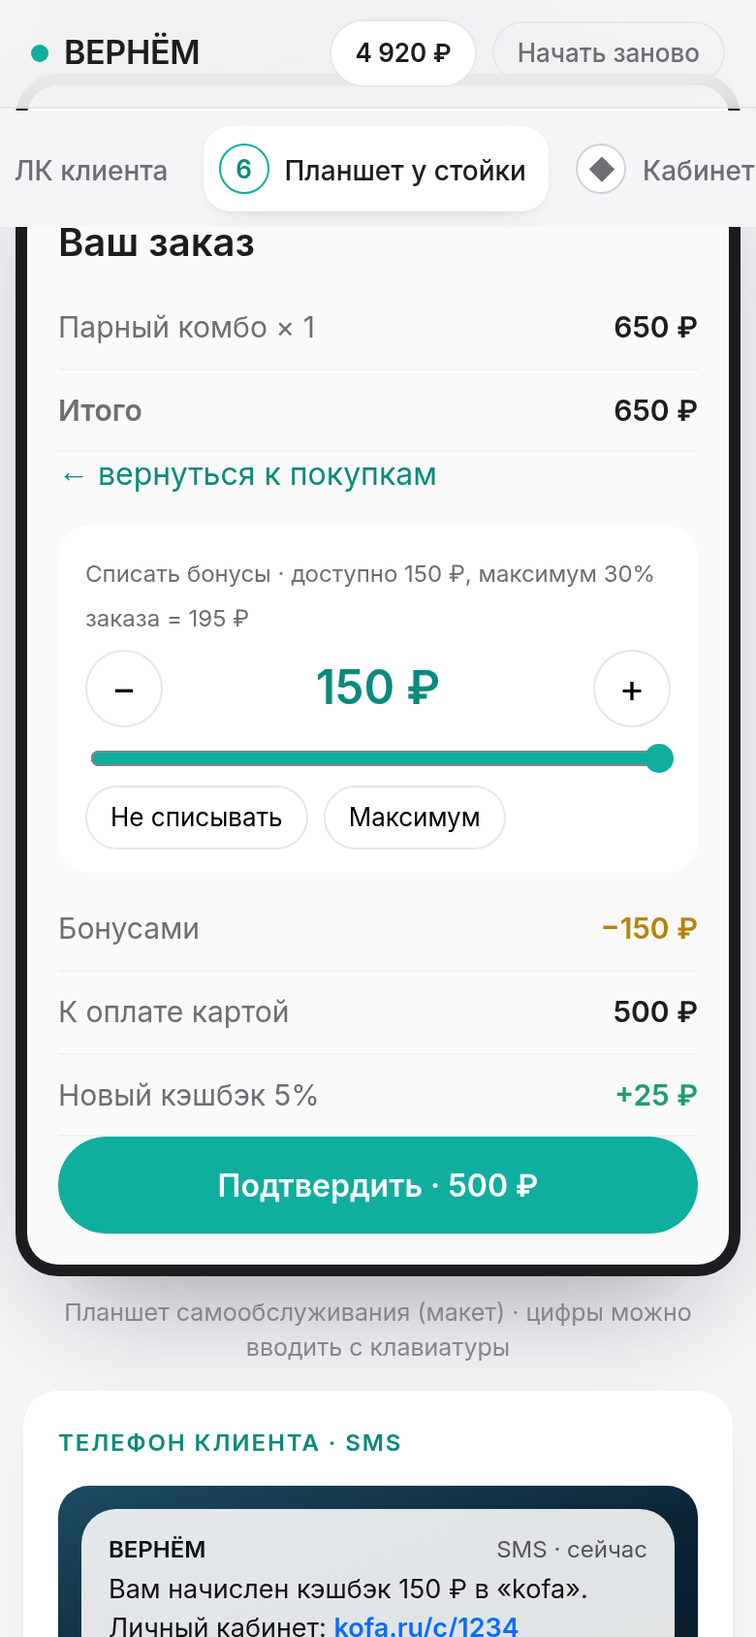
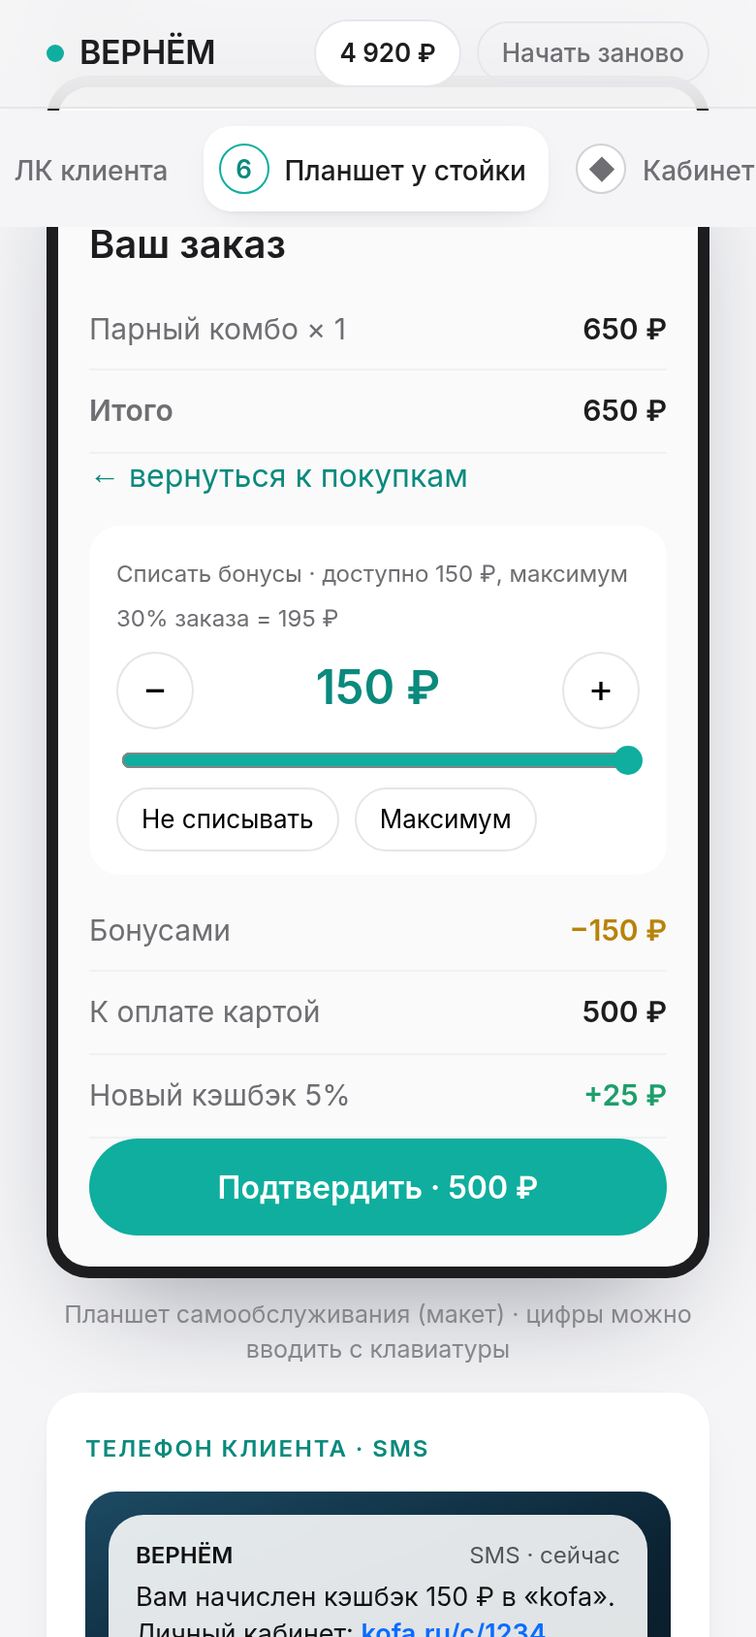
Mobile/desktop padding 24/32px; tablet: client cabinet with store + history after login; PIN для планшета

diff --git a/demo/index.html b/demo/index.html
@@ -21,7 +21,7 @@ body{background:var(--bg);color:var(--ink);font-family:Inter,-apple-system,Blink
 button,input,select{font-family:inherit;font-size:inherit}
 a{color:var(--brand-d)}
 .top{position:sticky;top:0;z-index:30;background:rgba(245,245,247,.82);backdrop-filter:saturate(180%) blur(20px);-webkit-backdrop-filter:saturate(180%) blur(20px);border-bottom:1px solid rgba(0,0,0,.06)}
-.top .in{max-width:1240px;margin:0 auto;padding:10px 16px;padding-top:max(10px,env(safe-area-inset-top));display:flex;align-items:center;gap:10px}
+.top .in{max-width:1240px;margin:0 auto;padding:10px 32px;padding-top:max(10px,env(safe-area-inset-top));display:flex;align-items:center;gap:10px}
 .brand{display:flex;align-items:center;gap:8px;font-weight:600;font-size:17px;letter-spacing:-.01em;text-decoration:none;color:var(--ink)}
 .dot{width:9px;height:9px;border-radius:50%;background:var(--brand);display:inline-block}
 .badge{font-size:11px;font-weight:600;color:var(--brand-d);background:var(--tint);padding:3px 8px;border-radius:20px}
@@ -30,7 +30,7 @@ a{color:var(--brand-d)}
 .pill b{font-weight:600}
 .ghost{background:none;border:1px solid var(--border);border-radius:980px;padding:7px 12px;font-size:13px;font-weight:500;color:var(--grey);cursor:pointer;white-space:nowrap}
 .ghost:hover{color:var(--ink)}
-.layout{max-width:1240px;margin:0 auto;display:grid;grid-template-columns:250px 1fr;gap:28px;padding:24px 16px 80px}
+.layout{max-width:1240px;margin:0 auto;display:grid;grid-template-columns:250px 1fr;gap:36px;padding:32px 32px 80px}
 .steps{position:sticky;top:76px;align-self:start;display:flex;flex-direction:column;gap:4px}
 .st{display:flex;align-items:center;gap:12px;padding:12px 14px;border-radius:14px;border:none;background:none;text-align:left;cursor:pointer;color:var(--grey);font-weight:500;font-size:15px;min-height:48px}
 .st .n{width:28px;height:28px;border-radius:50%;border:1.5px solid #D2D2D7;display:flex;align-items:center;justify-content:center;font-size:13px;font-weight:600;flex-shrink:0;background:#fff}
@@ -287,6 +287,14 @@ tr.me td{background:var(--tint)}tr.tot td{font-weight:600;border-top:1.5px solid
 .bkpill{margin-left:auto;display:flex;gap:8px;align-items:center}.bkpill .tpill{background:rgba(255,255,255,.9)}.bkpill .rb{background:rgba(255,255,255,.2);color:#fff;border-color:rgba(255,255,255,.4)}
 .tcab1{flex:1;overflow:auto;padding:18px 26px;display:flex;flex-direction:column;gap:12px;max-width:560px;width:100%;margin:0 auto}
 @media (min-width:821px){.tshop,.tshop .land.app{--stk:0px}}
+.tlk{padding:16px 18px 6px;background:#fff;border-bottom:1px solid #EEE}.tlk-h{display:flex;justify-content:space-between;align-items:center;font-size:15px}
+.tlk-hi{font-size:22px;font-weight:600;margin:12px 0 10px;letter-spacing:-.01em}.tlk-hi small{display:block;font-size:12.5px;font-weight:400;color:var(--grey)}
+.tlk-b{display:grid;grid-template-columns:1.6fr 1fr;gap:10px}.tlk-main{background:var(--tint);border-radius:18px;padding:14px 16px}.tlk-main small,.tlk-oth small{display:block;font-size:12px;color:var(--grey)}
+.tlk-main b{display:block;font-size:30px;font-weight:700;color:var(--brand-d);margin:2px 0}.tlk-main span{font-size:12px;color:var(--grey)}
+.tlk-oth{background:#F5F5F7;border-radius:18px;padding:14px 16px;font-size:13px}.tlk-oth div{display:flex;align-items:center;gap:8px;margin:6px 0 2px}.tlk-oth b{margin-left:auto;font-weight:600}.tlk-oth em{font-style:normal;font-size:11.5px;color:var(--grey2)}
+.tseg{display:flex;gap:4px;background:#F2F2F4;border-radius:12px;padding:3px;margin:14px 0 10px;max-width:320px}.tseg button{flex:1;border:none;background:none;border-radius:10px;padding:8px 0;font:inherit;font-size:14px;font-weight:500;color:var(--grey);cursor:pointer}.tseg button.on{background:#fff;color:var(--ink);box-shadow:0 1px 3px rgba(0,0,0,.1)}
+.thist2{padding:8px 18px 18px}.thist2 .hr{display:flex;justify-content:space-between;gap:10px;padding:10px 0;border-bottom:1px solid #EEE;font-size:14px}.thist2 small{display:block;color:var(--grey);font-size:12px}.thist2 b{white-space:nowrap}
+@media (max-width:820px){.tlk-b{grid-template-columns:1fr}.tlk{padding:16px 16px 4px}}
 .tablet{max-width:1024px;margin:0 auto 10px;background:#1D1D1F;border-radius:30px;padding:14px;box-shadow:0 30px 60px -28px rgba(16,24,40,.45)}
 .tscreen{background:#FAFAFA;border-radius:18px;aspect-ratio:16/10;overflow:hidden;display:flex;flex-direction:column;color:var(--ink)}
 .ttop{display:flex;justify-content:space-between;align-items:center;padding:12px 18px;background:#fff;border-bottom:1px solid #EEE;font-size:15px}.tmeta{font-size:13px;color:var(--grey)}
@@ -313,17 +321,18 @@ tr.me td{background:var(--tint)}tr.tot td{font-weight:600;border-top:1.5px solid
 .tuse-row button,.tuse-q button{border:1px solid #E5E5EA;background:#fff;border-radius:980px;font:inherit;cursor:pointer}.tuse-row button{width:40px;height:40px;font-size:20px}.tuse input{width:100%;accent-color:#0FAE9E}.tuse-q{display:flex;gap:8px}.tuse-q button{padding:6px 12px;font-size:13px}
 .tdone{flex:1;display:flex;flex-direction:column;align-items:center;justify-content:center;text-align:center;padding:18px}.tok{width:64px;height:64px;border-radius:50%;background:var(--tint);color:var(--brand-d);font-size:32px;display:flex;align-items:center;justify-content:center}
 .tdone h3{font-size:26px;margin:12px 0 4px;font-weight:600}.tdone p{color:var(--grey);margin:0 0 14px}.tdone-k{display:grid;grid-template-columns:repeat(4,1fr);gap:10px;margin-bottom:14px}.tdone-k div{background:#fff;border-radius:14px;padding:10px 14px}.tdone-k small{display:block;font-size:12px;color:var(--grey)}.tdone-k b{font-size:17px}
-@media (max-width:820px){.tablet{padding:6px;border-radius:22px;margin:0 -4px 10px}.tscreen{aspect-ratio:auto;border-radius:16px}.tphone,.tco{grid-template-columns:1fr;padding:16px;gap:14px}.tpad{margin:0 auto;max-width:none}.tph-l h3{font-size:22px}
+@media (max-width:820px){.tablet{padding:6px;border-radius:22px;margin:0 0 10px}.tscreen{aspect-ratio:auto;border-radius:16px}.tphone,.tco{grid-template-columns:1fr;padding:16px;gap:14px}.tpad{margin:0 auto;max-width:none}.tph-l h3{font-size:22px}
  .tcab{grid-template-columns:1fr}.tside{border-right:none;border-bottom:1px solid #EEE}.thist{display:none}.tgrid{grid-template-columns:repeat(2,1fr);overflow:visible}.tdone-k{grid-template-columns:repeat(2,1fr)}}
 @media (max-width:980px){.stage.s5,.stage.s6{grid-template-columns:minmax(0,1fr)}.kpis{grid-template-columns:repeat(2,1fr)}.stage{grid-template-columns:minmax(0,1fr)}}
 @media (max-width:820px){
- .layout{grid-template-columns:1fr;gap:14px;padding:12px 12px 90px}
- .steps{position:sticky;top:57px;z-index:20;flex-direction:row;overflow-x:auto;gap:6px;padding:8px 0;margin:0 -12px;padding-left:12px;padding-right:12px;background:var(--bg);scrollbar-width:none}
+ .layout{grid-template-columns:1fr;gap:18px;padding:16px 24px 90px}
+ .top .in{padding-left:24px;padding-right:24px}
+ .steps{position:sticky;top:57px;z-index:20;flex-direction:row;overflow-x:auto;gap:6px;padding:8px 0;margin:0 -24px;padding-left:24px;padding-right:24px;background:var(--bg);scrollbar-width:none}
  .steps::-webkit-scrollbar{display:none}
  .st{flex-shrink:0;padding:8px 12px 8px 8px;min-height:44px;font-size:14px;gap:8px}
  .st .n{width:26px;height:26px}
  .grid2{grid-template-columns:1fr}
- .card{padding:18px}
+ .card{padding:20px}
  .pill .lbl{display:none}
 }
 @media (max-width:820px){.vnote{position:static;display:table;margin:-70px auto 24px}}
@@ -676,7 +685,7 @@ function bindLk(){$$('[data-lk]').forEach(function(a){a.onclick=function(e){e.pr
 function v5(){
   OTHER=indKey()==='coffee'?OTHER0:OTHER1;
   var c=client(S.last),p=S.partner;
-  return head('Шаг 5','Личный кабинет клиента','Клиент открыл ссылку из SMS: баланс по сетям, история и PIN для терминала. Бонусы бессрочные.')+
+  return head('Шаг 5','Личный кабинет клиента','Клиент открыл ссылку из SMS: баланс по сетям, история и PIN для планшета. Бонусы бессрочные.')+
   '<div class="stage s5"><div><div class="phone"><div class="screen"><div class="isl"></div><div class="sbar"><span>9:41</span><span>●●● ▮</span></div><div class="lk">'+
   '<div class="hd"><span class="nett">'+logo(24)+esc(p.name)+'</span><span style="font-size:12px;color:var(--grey)">'+esc(maskPhone(c.phone))+'</span></div>'+
   '<div class="nets-t">Мои бонусы по сетям</div>'+
@@ -700,15 +709,19 @@ function tCart(){var q=TB.pend;return q?{L:[{n:q.t,p:q.p,q:1,note:q.note}],sum:r
 function tCalc(){var c=S.clients[normPhone(TB.ph)],p=S.partner,k=tCart(),cap=Math.floor(k.sum*p.maxShare/100),mx=Math.floor(Math.min(c?c.balance:0,cap));
   var u=TB.use==null?mx:Math.max(0,Math.min(mx,TB.use)),pay=r2(k.sum-u);return {sum:k.sum,cap:cap,max:mx,u:u,pay:pay,cb:r2(pay*p.cb/100),comm:r2(pay*p.comm/100)};}
 function tPad(id){return '<div class="tpad">'+['1','2','3','4','5','6','7','8','9','del','0','ok'].map(function(k){return '<button class="tk'+(k==='ok'?' ok':'')+'" data-tk="'+k+'" data-pad="'+id+'">'+(k==='ok'?'→':k==='del'?'⌫':k)+'</button>';}).join('')+'</div>';}
-function tScreen(){
+function tScreen(){OTHER=indKey()==='coffee'?OTHER0:OTHER1;
   var p=S.partner,c=S.clients[normPhone(TB.ph)];
   var top='<div class="ttop"><span class="nett">'+logo(26)+'<b>'+esc(p.name)+'</b></span><span class="tmeta">'+(TB.st!=='phone'&&c?esc(maskPhone(c.phone))+' · <button class="tlink" data-tb="out">выйти</button>':'Заказ у стойки')+'</span></div>';
   if(TB.st==='phone')return top+'<div class="tphone"><div class="tph-l"><h3>Введите номер телефона</h3><p>Увидите свои бонусы в '+esc(qn(p.name))+' и сможете сразу сделать заказ</p><div class="tdisp">'+(TB.ph?esc(digits(TB.ph).length===11?fmtPhone(TB.ph):'+'+TB.ph):'<span>+7 (___) ___-__-__</span>')+'</div>'+
     (S.last?'<button class="tquick" data-tb="me">Это я · '+esc(maskPhone(S.last))+'</button>':'')+'</div><div class="tph-r">'+tPad('ph')+'</div></div>';
-  if(TB.st==='shop')return '<div class="tshop" id="site">'+siteHtml()+'</div>';
-  if(TB.st==='cab')return top+'<div class="tcab1"><div class="tbal"><small>Ваши бонусы в '+esc(qn(p.name))+'</small><b>'+fmt(c.balance)+'</b><span>+'+p.cb+'% с каждого заказа · до '+p.maxShare+'% заказа бонусами</span></div>'+
-    '<div class="thist"><small>История</small>'+(c.hist.length?c.hist.slice(0,6).map(function(h){return '<div><span>'+esc(h.txt)+' · '+h.t+'</span><b class="'+(h.d>=0?'plus':'minus')+'">'+(h.d>=0?'+':'−')+fmt(Math.abs(h.d))+'</b></div>';}).join(''):'<div><span>Пока пусто</span></div>')+'</div>'+
-    '<button class="btn wide" data-tb="shop">← К покупкам</button></div>';
+  if(TB.st==='shop'||TB.st==='cab'){var tab=TB.tab||'buy',fn=String(c.name||'');
+    var lk='<div class="tlk"><div class="tlk-h"><span class="nett">'+logo(28)+'<b>'+esc(p.name)+'</b></span><button class="tlink" data-tb="out">Выйти</button></div>'+
+      '<div class="tlk-hi">Здравствуйте!<small>'+esc(maskPhone(c.phone))+'</small></div>'+
+      '<div class="tlk-b"><div class="tlk-main"><small>Ваши бонусы в '+esc(qn(p.name))+'</small><b data-t="tlkbal">'+fmt(c.balance)+'</b><span>+'+p.cb+'% с каждой покупки · оплата бонусами до '+p.maxShare+'%</span></div>'+
+      '<div class="tlk-oth"><small>Другие сети</small><div>'+initAva(OTHER.name,22)+'<span>'+esc(OTHER.name)+'</span><b>'+fmt(OTHER.bal)+'</b></div><em>тратятся только там</em></div></div>'+
+      '<div class="tseg"><button data-tab="buy"'+(tab==='buy'?' class="on"':'')+'>Покупки</button><button data-tab="hist"'+(tab==='hist'?' class="on"':'')+'>История</button></div></div>';
+    if(tab==='hist')return '<div class="tshop">'+lk+'<div class="thist2">'+(c.hist.length?c.hist.slice(0,12).map(function(h){return '<div class="hr"><div>'+esc(h.txt)+'<small>'+h.t+' · '+fmt(h.amount)+'</small></div><b class="'+(h.d>=0?'plus':'minus')+'">'+(h.d>=0?'+':'−')+fmt(Math.abs(h.d))+'</b></div>';}).join(''):'<div class="hint">Пока пусто</div>')+'</div></div>';
+    return '<div class="tshop">'+lk+'<div id="site">'+siteHtml()+'</div></div>';}
   if(TB.st==='checkout'){var k=tCart(),t=tCalc();
     return top+'<div class="tco"><div class="tco-l"><h3>Ваш заказ</h3>'+k.L.map(function(l){return '<div class="kv"><span>'+esc(l.n)+' × '+l.q+'</span><b>'+fmt(l.p*l.q)+'</b></div>';}).join('')+'<div class="kv"><span><b>Итого</b></span><b>'+fmt(t.sum)+'</b></div>'+(k.L[0]&&k.L[0].note?'<div class="hint">'+esc(k.L[0].note)+'</div>':'')+'<button class="tlink" data-tb="back">← вернуться к покупкам</button></div>'+
       '<div class="tco-r"><div class="tuse"><small>Списать бонусы · доступно '+fmt(c.balance)+', максимум '+p.maxShare+'% заказа = '+fmt(t.cap)+'</small><div class="tuse-row"><button data-tu="-">−</button><b data-t="tuse">'+fmt(t.u)+'</b><button data-tu="+">+</button></div>'+
@@ -725,14 +738,15 @@ function tScreen(){
 }
 function v6(){
   var p=S.partner;
-  return head('Шаг 6','Планшет у стойки','Клиент вводит телефон и сразу попадает в магазин '+esc(qn(p.name))+' — бонусы видны в шапке, при оплате можно списать до '+p.maxShare+'%.')+
+  return head('Шаг 6','Планшет у стойки','Клиент входит по телефону и PIN в свой кабинет на планшете: бонусы, покупки в '+esc(qn(p.name))+' с оплатой бонусами до '+p.maxShare+'% и история.')+
   '<div class="tablet"><div class="tscreen" id="tscreen">'+tScreen()+'</div></div><p class="hint" style="text-align:center">Планшет самообслуживания (макет) · цифры можно вводить с клавиатуры</p>'+
   '<div class="grid2"><div class="card" id="tsms"><div class="eyebrow">Телефон клиента · SMS</div><div class="minisms" id="tsmsbox">'+(S.sms.length?S.sms.slice(0,2).map(smsHtml).join(''):'<div class="empty">Здесь появится SMS</div>')+'</div></div>'+
   '<div class="card"><div class="eyebrow">Балансы</div><div class="kv"><span>Депозит '+esc(qn(p.name))+'</span><b>'+fmt(p.balance)+'</b></div><div class="kv"><span>Бонусный долг клиентам</span><b>'+fmt(Object.keys(S.clients).reduce(function(a,k){return a+S.clients[k].balance;},0))+'</b></div><div class="hint">Списываются только бонусы сети '+esc(qn(p.name))+'. С депозита: комиссия '+pcs(p.comm)+'% и SMS '+SMSFEE+' ₽.</div>'+
   (done(6)?'<button class="btn wide next" data-t="to7">Открыть кабинет партнёра →</button>':'')+'</div></div>';
 }
 function tRefresh(){var s=$('#tscreen');if(s){s.innerHTML=tScreen();bindT();}}
-function tDecorate(){if(TB.st!=='shop')return;var c=S.clients[normPhone(TB.ph)];if(!c)return;
+function tDecorate(){if(TB.st!=='shop'||(TB.tab||'buy')!=='buy')return;
+  $$('#site [data-t=prof]').forEach(function(b){b.onclick=function(){TB.tab='hist';tRefresh();};});return;var c=S.clients[normPhone(TB.ph)];if(!c)return;
   var pill='<button class="tpill" data-tb2="cab" aria-label="Мои бонусы">у вас '+String(r2(c.balance)).replace('.',',')+' бонусов</button>';
   var hb=$('#site .hbtns');
   if(hb){hb.insertAdjacentHTML('afterbegin',pill);var ah=hb.closest('.ahead');if(ah)ah.insertAdjacentHTML('afterend','<div class="tpillrow">'+pill+'</div>');}
@@ -752,16 +766,18 @@ function tAuth(){var c=S.clients[TB.ph],v=TB.code;if(v.length!==4)return;TB.code
   if(TB.st==='regcode'||TB.st==='rcode'){if(v!==TB.sent){toast('Неверный код из SMS');tRefresh();return;}TB.st='newpin';tRefresh();return;}
   if(TB.st==='newpin'){TB.np=v;TB.st='newpin2';tRefresh();return;}
   if(TB.st==='newpin2'){if(v!==TB.np){toast('PIN не совпал — придумайте ещё раз');TB.st='newpin';tRefresh();return;}var nc=client(TB.ph);nc.pin=v;if(!nc.last)nc.last=now();save();toast('PIN сохранён');tEnter();return;}}
-function tEnter(){TB.st='shop';TB.pend=null;TB.use=null;bkReset();S.last=TB.ph;save();render();}
+function tEnter(){TB.st='shop';TB.tab='buy';TB.pend=null;TB.use=null;bkReset();S.last=TB.ph;save();render();tTop();}
+function tTop(){var tb=$('.tablet');if(tb){window.scrollTo({top:Math.max(0,tb.getBoundingClientRect().top+window.scrollY-stk()-12)});var sh=$('#tscreen .tshop');if(sh)sh.scrollTop=0;}}
 function bindT(){
-  if(TB.st==='shop'){bindSite();tDecorate();}
+  if(TB.st==='shop'&&(TB.tab||'buy')==='buy'){bindSite();tDecorate();}
+  $$('[data-tab]').forEach(function(b){b.onclick=function(){TB.tab=b.dataset.tab;tRefresh();};});
   $$('[data-tk]').forEach(function(b){b.onclick=function(){tKey(b.dataset.pad,b.dataset.tk);};});
   $$('[data-tu]').forEach(function(b){b.onclick=function(){var t=tCalc(),v=b.dataset.tu;TB.use=v==='max'?t.max:v==='0'?0:Math.max(0,Math.min(t.max,t.u+(v==='+'?10:-10)));tRefresh();};});
   var rg=$('[data-t=trange]');if(rg)rg.oninput=function(){TB.use=+rg.value;tRefresh();var r=$('[data-t=trange]');if(r)r.focus();};
   $$('[data-tb]').forEach(function(b){b.onclick=function(){var a=b.dataset.tb;
     if(a==='me'){if(!tLogin(S.last))return;}
     else if(a==='out'){tbReset();bkReset();}
-    else if(a==='new'||a==='shop'||a==='back'){TB.st='shop';TB.pend=null;TB.use=null;if(a==='new')bkReset();}
+    else if(a==='new'||a==='shop'||a==='back'){TB.st='shop';TB.tab='buy';TB.pend=null;TB.use=null;if(a==='new')bkReset();}
     else if(a==='confirm'){var t=tCalc();if(S.partner.balance<t.comm+SMSFEE){toast('Оплата временно недоступна — обратитесь к сотруднику');return;}payTB();return;}
     else if(a==='forgot'){if(!tSendCode('pinr'))return;TB.st='rcode';TB.code='';render();return;}
     else if(a==='resend'){if(!tSendCode(TB.st==='rcode'?'pinr':'reg'))return;render();return;}
@@ -778,7 +794,7 @@ function payTB(){
     var no=String(100+(S.tx.length*37)%900);
     tx({type:'terminal',phone:ph,amount:t.sum,used:t.u,paid:t.pay,cb:t.cb,comm:t.comm,item:title,no:no});S.last=ph;
     sendSms({k:'cb',cb:t.cb,partner:p.name,phone:ph});
-    TB.order={no:no,u:t.u,pay:t.pay,cb:t.cb,bal:c.balance};TB.st='done';TB.pend=null;bkReset();save();render();toast('Заказ № '+no+' принят');});
+    TB.order={no:no,u:t.u,pay:t.pay,cb:t.cb,bal:c.balance};TB.st='done';TB.pend=null;bkReset();save();render();tTop();toast('Заказ № '+no+' принят');});
 }
 function b6(){bindT();var t=$('[data-t=to7]');if(t)t.onclick=function(){go(7);};}
 document.addEventListener('keydown',function(e){if(S.step!==6||/input|textarea/i.test((e.target||{}).tagName||''))return;var pad=TB.st==='phone'?'ph':/^(pin|regcode|rcode|newpin|newpin2)$/.test(TB.st)?'au':null;if(!pad)return;if(/^\d$/.test(e.key))tKey(pad,e.key);else if(e.key==='Backspace')tKey(pad,'del');else if(e.key==='Enter')tKey(pad,'ok');});

diff --git a/demo/admin/index.html b/demo/admin/index.html
@@ -17,7 +17,7 @@ body{background:var(--bg);color:var(--ink);font-family:Inter,-apple-system,Blink
 button,input,select{font-family:inherit;font-size:inherit}
 a{color:var(--brand-d)}
 .top{position:sticky;top:0;z-index:30;background:rgba(245,245,247,.82);backdrop-filter:saturate(180%) blur(20px);-webkit-backdrop-filter:saturate(180%) blur(20px);border-bottom:1px solid rgba(0,0,0,.06)}
-.top .in{max-width:1240px;margin:0 auto;padding:10px 16px;padding-top:max(10px,env(safe-area-inset-top));display:flex;align-items:center;gap:10px}
+.top .in{max-width:1240px;margin:0 auto;padding:10px 32px;padding-top:max(10px,env(safe-area-inset-top));display:flex;align-items:center;gap:10px}
 .brand{display:flex;align-items:center;gap:8px;font-weight:600;font-size:17px;letter-spacing:-.01em;text-decoration:none;color:var(--ink)}
 .dot{width:9px;height:9px;border-radius:50%;background:var(--brand);display:inline-block}
 .badge{font-size:11px;font-weight:600;color:var(--brand-d);background:var(--tint);padding:3px 8px;border-radius:20px}
@@ -26,7 +26,7 @@ a{color:var(--brand-d)}
 .pill b{font-weight:600}
 .ghost{background:none;border:1px solid var(--border);border-radius:980px;padding:7px 12px;font-size:13px;font-weight:500;color:var(--grey);cursor:pointer;white-space:nowrap}
 .ghost:hover{color:var(--ink)}
-.layout{max-width:1240px;margin:0 auto;display:grid;grid-template-columns:250px 1fr;gap:28px;padding:24px 16px 80px}
+.layout{max-width:1240px;margin:0 auto;display:grid;grid-template-columns:250px 1fr;gap:36px;padding:32px 32px 80px}
 .steps{position:sticky;top:76px;align-self:start;display:flex;flex-direction:column;gap:4px}
 .st{display:flex;align-items:center;gap:12px;padding:12px 14px;border-radius:14px;border:none;background:none;text-align:left;cursor:pointer;color:var(--grey);font-weight:500;font-size:15px;min-height:48px}
 .st .n{width:28px;height:28px;border-radius:50%;border:1.5px solid #D2D2D7;display:flex;align-items:center;justify-content:center;font-size:13px;font-weight:600;flex-shrink:0;background:#fff}
@@ -184,29 +184,31 @@ tr.me td{background:var(--tint)}tr.tot td{font-weight:600;border-top:1.5px solid
 .stage.s5{grid-template-columns:300px minmax(0,1fr)}.stage.s6{grid-template-columns:320px minmax(0,1fr)}
 @media (max-width:980px){.stage.s5,.stage.s6{grid-template-columns:1fr}.kpis{grid-template-columns:repeat(2,1fr)}.stage{grid-template-columns:1fr}}
 @media (max-width:820px){
- .layout{grid-template-columns:1fr;gap:14px;padding:12px 12px 90px}
- .steps{position:sticky;top:57px;z-index:20;flex-direction:row;overflow-x:auto;gap:6px;padding:8px 0;margin:0 -12px;padding-left:12px;padding-right:12px;background:var(--bg);scrollbar-width:none}
+ .layout{grid-template-columns:1fr;gap:18px;padding:16px 24px 90px}
+ .top .in{padding-left:24px;padding-right:24px}
+ .steps{position:sticky;top:57px;z-index:20;flex-direction:row;overflow-x:auto;gap:6px;padding:8px 0;margin:0 -24px;padding-left:24px;padding-right:24px;background:var(--bg);scrollbar-width:none}
  .steps::-webkit-scrollbar{display:none}
  .st{flex-shrink:0;padding:8px 12px 8px 8px;min-height:44px;font-size:14px;gap:8px}
  .st .n{width:26px;height:26px}
  .grid2{grid-template-columns:1fr}
- .card{padding:18px}
+ .card{padding:20px}
  .pill .lbl{display:none}
 }
 @media (max-width:820px){.vnote{position:static;display:table;margin:-70px auto 24px}}
 @media (max-width:420px){.brand .badge{display:none}.top .in{gap:8px}}
-.wrap{max-width:1180px;margin:0 auto;padding:24px 16px 90px}
+.wrap{max-width:1180px;margin:0 auto;padding:32px 32px 90px}
+@media (max-width:820px){.wrap{padding:20px 24px 90px}}
 table.nets tr[data-net]{cursor:pointer}table.nets tr[data-net]:hover td{background:#F7F9FA}table.nets td small{display:block;color:var(--grey2);font-size:12px}
 td.go{color:var(--grey2);font-size:20px}
 .model{font-size:14.5px;line-height:1.55;background:var(--tint);color:#0b5f56;box-shadow:none}.model b{font-weight:600}
 .ov[hidden]{display:none}.ov{align-items:flex-start;overflow:auto}
-.sheet{background:var(--bg);border-radius:24px;width:100%;max-width:1040px;margin:24px auto;padding:22px;box-shadow:0 30px 80px -20px rgba(0,0,0,.45)}
+.sheet{background:var(--bg);border-radius:24px;width:100%;max-width:1040px;margin:24px auto;padding:32px;box-shadow:0 30px 80px -20px rgba(0,0,0,.45)}
 .ddh{display:flex;justify-content:space-between;align-items:flex-start;gap:12px;margin-bottom:14px}.ddh h2{margin:0;font-weight:500;font-size:clamp(22px,3vw,30px);letter-spacing:-.02em}
 .dgrid{display:grid;grid-template-columns:1fr 1fr;gap:16px;margin-bottom:16px}.dgrid .card+.card{margin-top:0}
 .okb{background:var(--tint);color:var(--brand-d);border-radius:12px;padding:10px 12px;font-size:13.5px;font-weight:500;margin-top:10px}
 .sheet .warn{margin:10px 0 0;font-size:13.5px}
 .roll{border:1.5px solid var(--brand)}
-@media (max-width:820px){.dgrid{grid-template-columns:1fr}.ov{padding:0}.sheet{margin:0;border-radius:0;min-height:100%;padding:16px 12px 40px}.vnote{position:static;display:table;margin:-60px auto 24px}.kv{font-size:14px;gap:10px}.kv b{text-align:right}}
+@media (max-width:820px){.dgrid{grid-template-columns:1fr}.ov{padding:0}.sheet{margin:0;border-radius:0;min-height:100%;padding:20px 24px 40px}.vnote{position:static;display:table;margin:-60px auto 24px}.kv{font-size:14px;gap:10px}.kv b{text-align:right}}
 .ava{flex-shrink:0;display:block}.nett{display:flex;align-items:center;gap:12px}
 .dfoot{text-align:center;font-size:12.5px;color:var(--grey2);padding:8px 16px 70px}.dfoot a{color:var(--brand-d);text-decoration:none;font-weight:500}
 </style>
